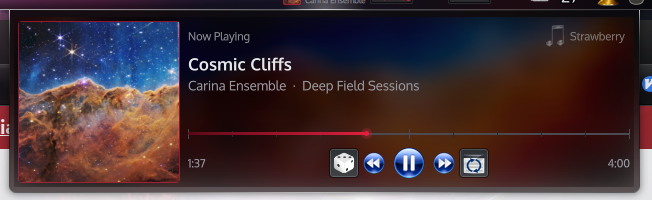
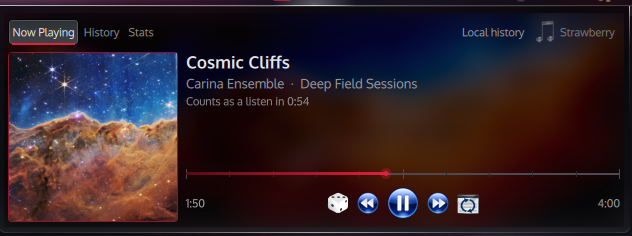
Fix History/Stats pages not loading; refresh screenshots
The pages' own 'scrobbler' property shadowed the engine id, so they got
undefined. Load on creation too, and give the card a minimum height so a
popup size saved by 1.x doesn't clip the Stats page.

diff --git a/package/contents/ui/main.qml b/package/contents/ui/main.qml
@@ -40,6 +40,7 @@ PlasmoidItem {
         localOnlyPlayers: Plasmoid.configuration.localOnlyPlayers
         ignoredPlayers: Plasmoid.configuration.ignoredPlayers
     }
+    readonly property var engine: scrobbler    // the pages have their own "scrobbler" property
     property int page: 0    // 0 = now, 1 = history, 2 = stats
 
     function scrobbleText() {
@@ -197,7 +198,7 @@ PlasmoidItem {
     fullRepresentation: Item {
         id: card
         Layout.minimumWidth: Kirigami.Units.gridUnit * 22
-        Layout.minimumHeight: Kirigami.Units.gridUnit * 8
+        Layout.minimumHeight: 214    // the Stats page needs this much
         Layout.preferredWidth: 620
         Layout.preferredHeight: 214
         clip: true
@@ -449,13 +450,13 @@ PlasmoidItem {
         }
 
         HistoryPage {
-            scrobbler: scrobbler
+            scrobbler: root.engine
             active: root.expanded && root.page === 1 || Plasmoid.formFactor === PlasmaCore.Types.Planar && root.page === 1
             crimson: root.crimson
             dim: root.dim
         }
         StatsPage {
-            scrobbler: scrobbler
+            scrobbler: root.engine
             active: root.expanded && root.page === 2 || Plasmoid.formFactor === PlasmaCore.Types.Planar && root.page === 2
             crimson: root.crimson
             dim: root.dim

diff --git a/package/contents/ui/HistoryPage.qml b/package/contents/ui/HistoryPage.qml
@@ -21,6 +21,7 @@ Item {
         for (const r of scrobbler.recent(60)) rows.append(r)
     }
     onActiveChanged: reload()
+    Component.onCompleted: reload()
     Connections {
         target: page.scrobbler
         function onRevisionChanged() { page.reload() }

diff --git a/package/contents/ui/StatsPage.qml b/package/contents/ui/StatsPage.qml
@@ -20,6 +20,7 @@ Item {
         chart.requestPaint()
     }
     onActiveChanged: reload()
+    Component.onCompleted: reload()
     Connections {
         target: page.scrobbler
         function onRevisionChanged() { page.reload() }

diff --git a/README.md b/README.md
@@ -21,6 +21,10 @@ Since 2.0 the widget also keeps track of what you listen to. A track counts as a
 - **In the panel** a thin crimson line along the bottom of the album thumbnail fills up as the track gets closer to counting, and stays solid once it has. The tooltip says how long is left.
 - **The card** has three tabs: *Now Playing*, *History* (recent listens, with a dot showing whether each one is on ListenBrainz, queued, or kept locally) and *Stats* (today, the last 7 days, your streak, a 14-day chart and the week's top artists).
 
+  ![History tab](screenshots/history.png)
+
+  ![Stats tab](screenshots/stats.png)
+
 The widget follows the player shown on the card, which is the one that's playing unless you picked another with the player chip.
 
 ## Tests
@@ -31,4 +35,4 @@ Install with `kpackagetool6 -t Plasma/Applet -i package`. Upgrade with `kpackage
 
 **Note:** the widget uses Plasma's *private* MPRIS QML module (`org.kde.plasma.private.mpris`), the same one the stock Media Player widget uses. A major Plasma release could change that API.
 
-Screenshot album art: *Cosmic Cliffs* in the Carina Nebula, NASA, ESA, CSA, STScI. The track metadata in the screenshots is made up.
+Screenshot album art: *Cosmic Cliffs* in the Carina Nebula, NASA, ESA, CSA, STScI. The track metadata and listen history in the screenshots are made up.
